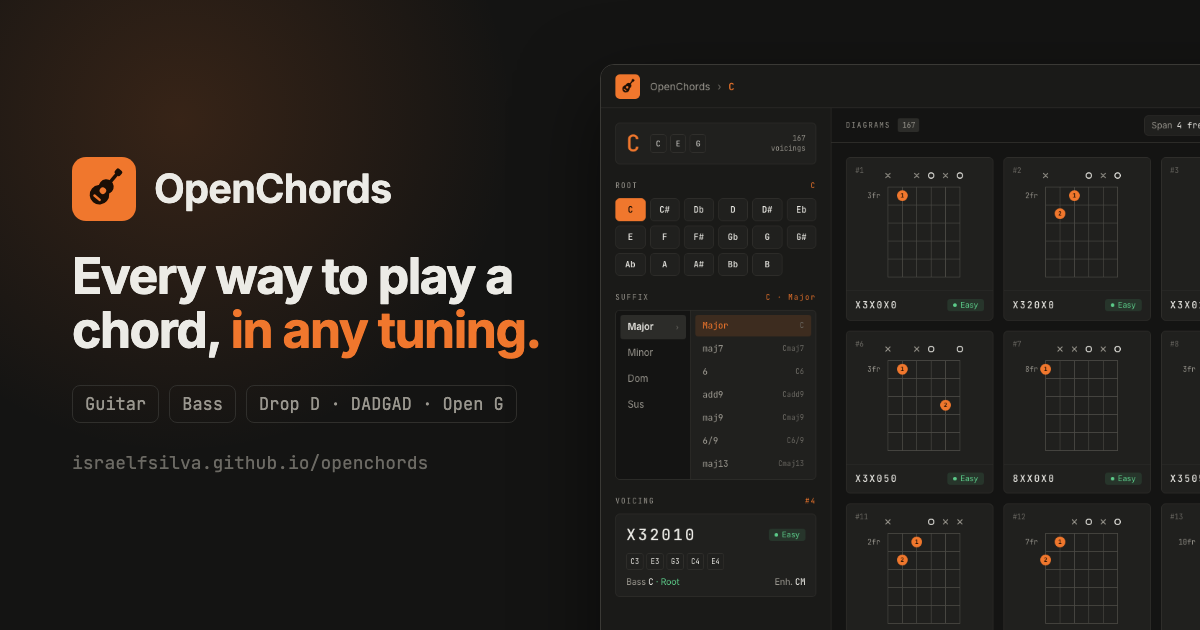
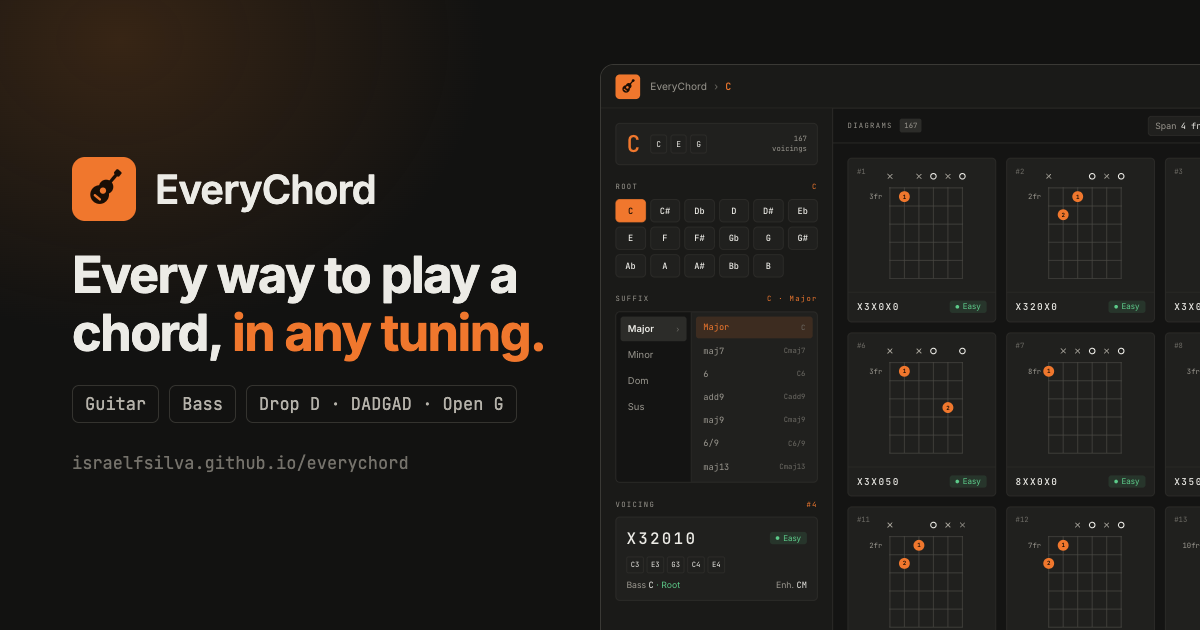
chore: renomear projeto para EveryChord
Atualiza marca, URLs do GitHub Pages, nome do pacote, chaves do
localStorage, screenshot do README e imagem de compartilhamento.

diff --git a/index.html b/index.html
@@ -5,38 +5,38 @@
     <link rel="icon" type="image/svg+xml" href="/favicon.svg" />
     <link rel="apple-touch-icon" href="/apple-touch-icon.png" />
     <meta name="viewport" content="width=device-width, initial-scale=1.0" />
-    <title>OpenChords • Guitar and bass chords in any tuning</title>
+    <title>EveryChord • Guitar and bass chords in any tuning</title>
     <meta name="description" content="Every way to play a chord on guitar or bass, in any tuning. See the diagrams, hear each voicing, and pick the one that fits your hand best." />
     <meta name="theme-color" content="#141413" />
-    <link rel="canonical" href="https://israelfsilva.github.io/openchords/" />
+    <link rel="canonical" href="https://israelfsilva.github.io/everychord/" />
 
     <!-- Open Graph (LinkedIn, Facebook, WhatsApp, Slack…): URLs must be absolute -->
     <meta property="og:type" content="website" />
-    <meta property="og:site_name" content="OpenChords" />
-    <meta property="og:url" content="https://israelfsilva.github.io/openchords/" />
-    <meta property="og:title" content="OpenChords • Guitar and bass chords in any tuning" />
+    <meta property="og:site_name" content="EveryChord" />
+    <meta property="og:url" content="https://israelfsilva.github.io/everychord/" />
+    <meta property="og:title" content="EveryChord • Guitar and bass chords in any tuning" />
     <meta property="og:description" content="Every way to play a chord on guitar or bass, in any tuning. See the diagrams, hear each voicing, and pick the one that fits your hand best." />
-    <meta property="og:image" content="https://israelfsilva.github.io/openchords/og-image.png" />
+    <meta property="og:image" content="https://israelfsilva.github.io/everychord/og-image.png" />
     <meta property="og:image:type" content="image/png" />
     <meta property="og:image:width" content="1200" />
     <meta property="og:image:height" content="630" />
-    <meta property="og:image:alt" content="OpenChords: chord diagrams for every voicing of a C major chord, with a fretboard view" />
+    <meta property="og:image:alt" content="EveryChord: chord diagrams for every voicing of a C major chord, with a fretboard view" />
     <meta property="og:locale" content="en_US" />
     <meta property="og:locale:alternate" content="pt_BR" />
     <meta property="og:locale:alternate" content="es_ES" />
 
     <!-- X / Twitter -->
     <meta name="twitter:card" content="summary_large_image" />
-    <meta name="twitter:title" content="OpenChords • Guitar and bass chords in any tuning" />
+    <meta name="twitter:title" content="EveryChord • Guitar and bass chords in any tuning" />
     <meta name="twitter:description" content="Every way to play a chord on guitar or bass, in any tuning. See the diagrams, hear each voicing, and pick the one that fits your hand best." />
-    <meta name="twitter:image" content="https://israelfsilva.github.io/openchords/og-image.png" />
-    <meta name="twitter:image:alt" content="OpenChords: chord diagrams for every voicing of a C major chord, with a fretboard view" />
+    <meta name="twitter:image" content="https://israelfsilva.github.io/everychord/og-image.png" />
+    <meta name="twitter:image:alt" content="EveryChord: chord diagrams for every voicing of a C major chord, with a fretboard view" />
     <script>
       // Apply saved/system theme before first paint (see src/lib/theme.ts)
       (function () {
         var theme = 'dark';
         try {
-          var stored = localStorage.getItem('openchords-theme');
+          var stored = localStorage.getItem('everychord-theme');
           if (stored === 'light' || stored === 'dark') theme = stored;
           else if (window.matchMedia('(prefers-color-scheme: light)').matches) theme = 'light';
         } catch (e) {}

diff --git a/src/i18n/messages.ts b/src/i18n/messages.ts
@@ -85,7 +85,7 @@ export interface Messages {
 const pt: Messages = {
   meta: {
     htmlLang: 'pt-BR',
-    title: 'OpenChords • Acordes para violão, guitarra e baixo',
+    title: 'EveryChord • Acordes para violão, guitarra e baixo',
     languageName: 'Português',
   },
   header: {
@@ -178,7 +178,7 @@ const pt: Messages = {
 const en: Messages = {
   meta: {
     htmlLang: 'en',
-    title: 'OpenChords • Guitar and bass chords in any tuning',
+    title: 'EveryChord • Guitar and bass chords in any tuning',
     languageName: 'English',
   },
   header: {
@@ -271,7 +271,7 @@ const en: Messages = {
 const es: Messages = {
   meta: {
     htmlLang: 'es',
-    title: 'OpenChords • Acordes para guitarra y bajo',
+    title: 'EveryChord • Acordes para guitarra y bajo',
     languageName: 'Español',
   },
   header: {

diff --git a/src/__tests__/App.test.tsx b/src/__tests__/App.test.tsx
@@ -5,7 +5,7 @@ import { useChordStore } from '../store/chord-store';
 import { THEME_STORAGE_KEY } from '../lib/theme';
 import { useI18n } from '../i18n';
 
-describe('OpenChords Application Integration', () => {
+describe('EveryChord Application Integration', () => {
   beforeEach(() => {
     localStorage.clear();
     useI18n.getState().setLocale('pt');
@@ -19,8 +19,7 @@ describe('OpenChords Application Integration', () => {
 
     // Header title
     const heading = screen.getByRole('heading', { level: 1 });
-    expect(heading.textContent).toContain('Open');
-    expect(heading.textContent).toContain('Chords');
+    expect(heading.textContent).toContain('EveryChord');
 
     // Search bar
     expect(

diff --git a/src/components/HeaderBar.tsx b/src/components/HeaderBar.tsx
@@ -97,7 +97,7 @@ export const HeaderBar: React.FC<{ onMenuClick?: () => void }> = ({ onMenuClick 
           <LogoMark className="h-6 w-6" />
         </div>
         <nav aria-label="Breadcrumb" className="flex min-w-0 items-center gap-2.5 text-sm">
-          <h1 className="sr-only text-muted md:not-sr-only">OpenChords</h1>
+          <h1 className="sr-only text-muted md:not-sr-only">EveryChord</h1>
           <span className="hidden text-faint md:inline" aria-hidden>›</span>
           <span
             className="max-w-[9ch] shrink-0 truncate font-mono font-medium text-accent sm:max-w-[12ch]"

diff --git a/src/components/LogoMark.tsx b/src/components/LogoMark.tsx
@@ -1,7 +1,7 @@
 import React, { useId } from 'react';
 
 /**
- * OpenChords mark: a tilted acoustic guitar in currentColor (sound hole and bridge are cut out).
+ * EveryChord mark: a tilted acoustic guitar in currentColor (sound hole and bridge are cut out).
  * Keep in sync with public/favicon.svg, which draws the same geometry on the accent tile.
  */
 export const LogoMark: React.FC<{ className?: string }> = ({ className }) => {

diff --git a/src/i18n/index.ts b/src/i18n/index.ts
@@ -3,7 +3,7 @@ import { LOCALES, MESSAGES, type Locale, type Messages } from './messages';
 
 export { LOCALES, MESSAGES, type Locale, type Messages };
 
-export const LOCALE_STORAGE_KEY = 'openchords-locale';
+export const LOCALE_STORAGE_KEY = 'everychord-locale';
 
 const isLocale = (value: unknown): value is Locale =>
   typeof value === 'string' && (LOCALES as string[]).includes(value);

diff --git a/src/index.css b/src/index.css
@@ -11,7 +11,7 @@
     --font-heading: var(--font-sans);
     --font-mono: 'JetBrains Mono Variable', ui-monospace, monospace;
 
-    /* OpenChords tokens (see handoff openchords-theme.css) */
+    /* EveryChord tokens (see handoff openchords-theme.css) */
     --color-bg: var(--bg);
     --color-surface: var(--surface);
     --color-card: var(--card);

diff --git a/vite.config.ts b/vite.config.ts
@@ -4,7 +4,7 @@ import react from "@vitejs/plugin-react"
 import tailwindcss from "@tailwindcss/vite"
 
 export default defineConfig({
-  base: process.env.NODE_ENV === 'production' ? '/openchords/' : '/',
+  base: process.env.NODE_ENV === 'production' ? '/everychord/' : '/',
   plugins: [react(), tailwindcss()],
   resolve: {
     alias: {

diff --git a/src/lib/theme.ts b/src/lib/theme.ts
@@ -1,7 +1,7 @@
 export type Theme = 'light' | 'dark';
 
 // Keep in sync with the inline script in index.html
-export const THEME_STORAGE_KEY = 'openchords-theme';
+export const THEME_STORAGE_KEY = 'everychord-theme';
 
 export function getInitialTheme(): Theme {
   try {

diff --git a/README.md b/README.md
@@ -1,12 +1,12 @@
-# OpenChords
+# EveryChord
 
 > Every way to play a chord on guitar or bass, in any tuning. See the diagrams, hear each voicing, and pick the one that fits your hand best.
 
-**Try it:** https://israelfsilva.github.io/openchords/
+**Try it:** https://israelfsilva.github.io/everychord/
 
 Inspired by the classic "Billion Chords".
 
-![OpenChords screenshot](docs/screenshot.png)
+![EveryChord screenshot](docs/screenshot.png)
 
 ---
 
